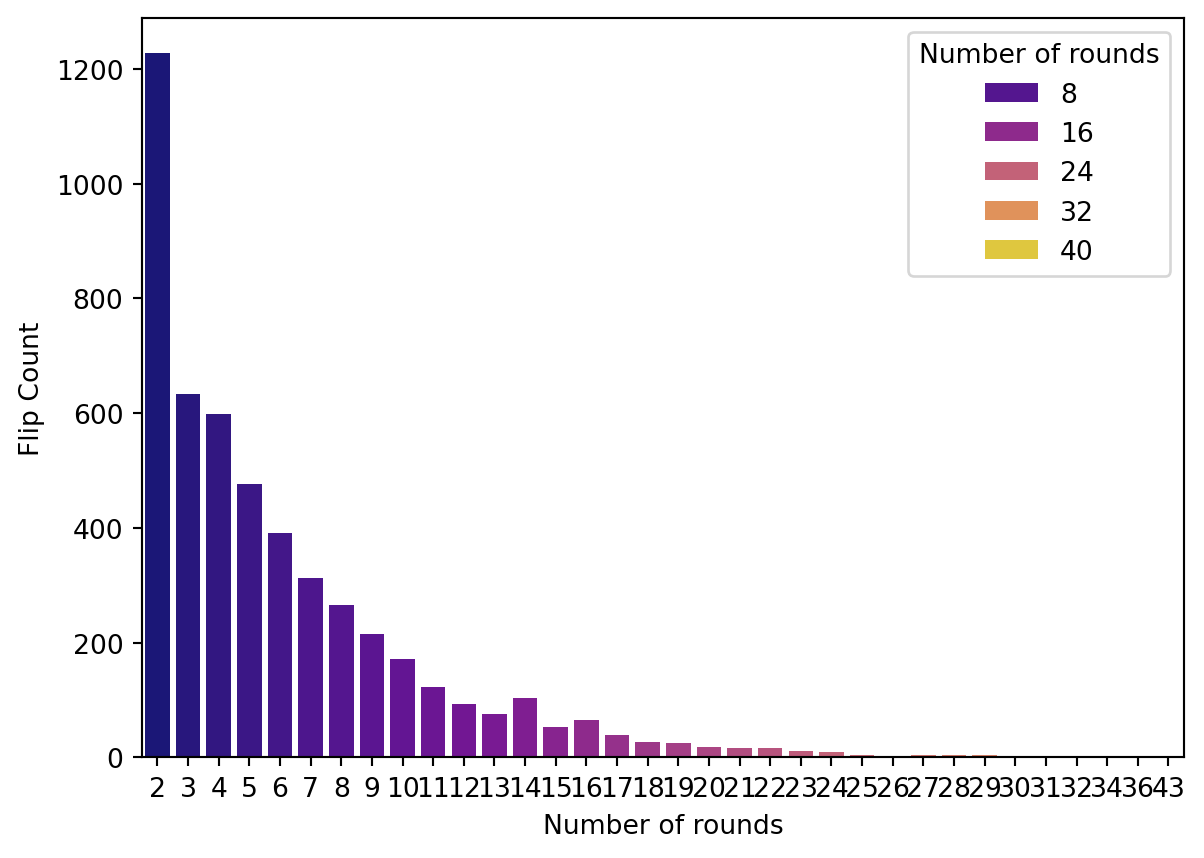
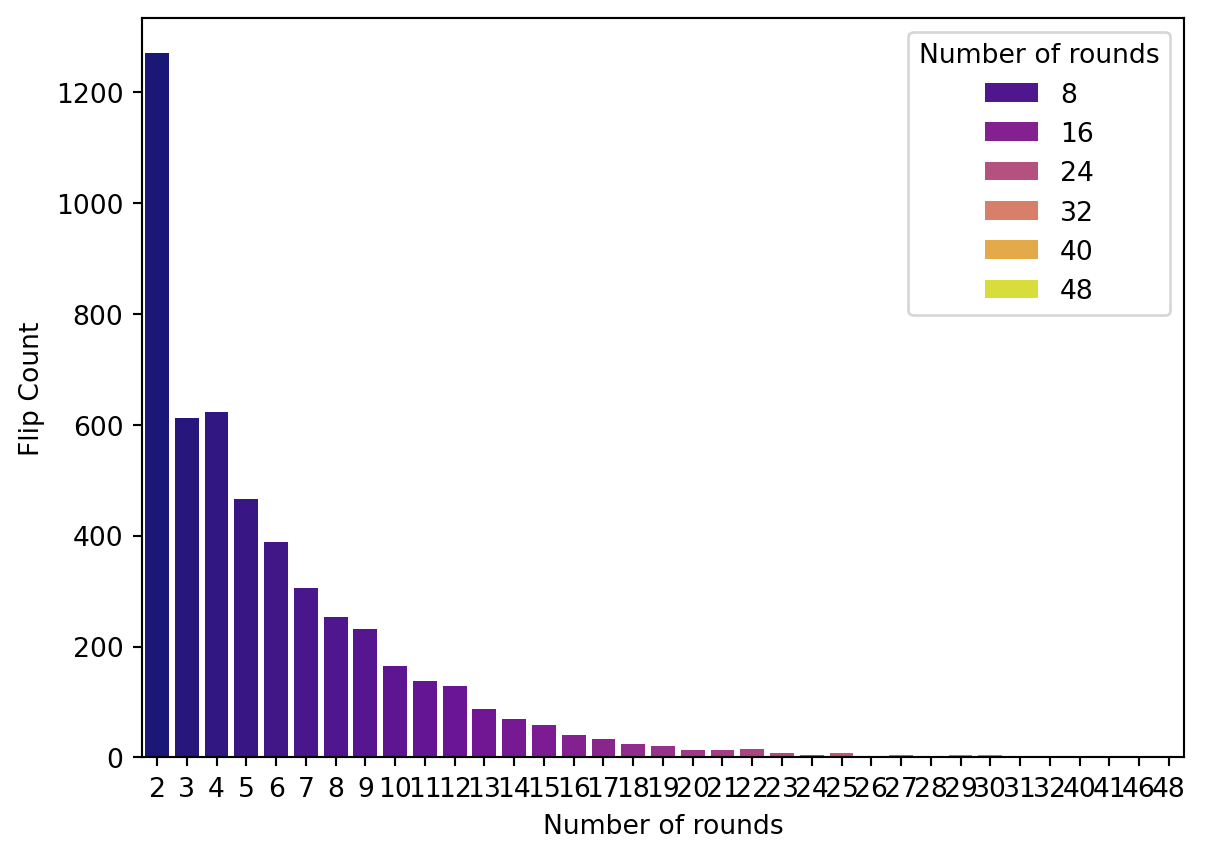
Built site for gh-pages

diff --git a/posts/clas.html b/posts/clas.html
@@ -447,9 +447,9 @@ require(['plotly'], function(Plotly) {
 </details>
 <div class="cell-output cell-output-display">
 
-<div>                            <div id="a02548ff-e9e2-48d5-b165-f7f3f0111e7c" class="plotly-graph-div" style="height:525px; width:100%;"></div>            <script type="text/javascript">                require(["plotly"], function(Plotly) {                    window.PLOTLYENV=window.PLOTLYENV || {};                                    if (document.getElementById("a02548ff-e9e2-48d5-b165-f7f3f0111e7c")) {                    Plotly.newPlot(                        "a02548ff-e9e2-48d5-b165-f7f3f0111e7c",                        [{"mode":"markers","name":"Setosa","x":[5.8,5.1,6.6,5.4,7.9,6.3,6.9,5.1,4.7,6.9,5.6,5.4,7.1,6.4,6.0,4.4,5.8,5.6,5.4,5.0,5.5,5.4,6.7,5.0,7.2,5.7,5.5,5.1,6.1,6.3,6.1,7.7,5.6,6.4,5.8,5.3,5.5,5.2,6.5,6.7,6.8,5.1,6.0,6.3,6.6,7.7,5.7,5.0,4.8,5.2,5.1,5.5,7.7,6.9,7.3,6.4,6.2,6.0,7.7,5.7,4.8,5.7,6.3,4.8,4.7,6.5,4.6,6.1,6.5,6.7,5.7,6.7,6.0,5.1,6.0],"y":[4.0,2.5,3.0,3.9,3.8,3.3,3.1,3.8,3.2,3.2,2.7,3.9,3.0,3.2,2.9,3.2,2.6,3.0,3.4,3.2,2.6,3.0,3.0,3.5,3.2,2.8,4.2,3.8,2.8,2.5,3.0,3.0,2.5,2.8,2.8,3.7,2.3,3.4,2.8,2.5,3.0,3.5,2.2,2.9,2.9,2.6,3.8,3.6,3.0,2.7,3.4,3.5,3.8,3.1,2.9,2.8,2.8,3.4,2.8,3.0,3.4,2.5,2.7,3.0,3.2,3.0,3.4,3.0,3.2,3.1,2.8,3.3,3.0,3.8,2.2],"z":[0.9791246596671646,0.26013654237538497,0.007963673282095754,0.9801071577347609,4.495071570779708e-06,0.0061264842135451015,0.0003570381934695657,0.9511761146361241,0.9617226465203426,3.5826613740558625e-05,0.02315037105658017,0.9589695780835856,1.9324248195621082e-05,0.0091947419418521,0.009123177682802203,0.9838183218995206,0.026289955782468264,0.014184471917944657,0.945677729813282,0.9745483052639812,0.015452369458327822,0.016508747051751746,0.0012533911837236194,0.9787007232589768,2.6972882702673774e-05,0.029276646369642768,0.9831536600662389,0.9769560324967049,0.005739028247299872,0.000739746003082292,0.007972496792161905,4.7697591682653565e-06,0.03568847294049869,6.833762311141067e-05,0.00033633634667340376,0.9685984086566821,0.023291614718408408,0.9652117295658259,0.004110087416852913,3.98411647738038e-05,0.0001060691718179118,0.971612036621742,0.0010932621039200698,0.00013868946545520338,0.004816750526560667,1.204922563128464e-07,0.9385083269148525,0.9782536157736209,0.9604528980644816,0.059461295888194265,0.9624847417632278,0.9650610069895943,8.539533397109276e-07,0.00016456022736545685,6.076450231152045e-06,5.5710059196543446e-05,0.002290670159623325,0.014796914440145194,6.269636749466606e-07,0.03207551787133081,0.9671602399742649,0.0008484797963953404,0.0014251938648965458,0.962792125713752,0.9777555304891326,2.7677797301574774e-05,0.9809255698496017,0.0021640582802792364,0.0007766512553387681,0.008192970580319812,0.01221565852549961,2.6609119078322976e-05,0.003175667405768314,0.9732031729875804,0.013797983627374286],"type":"scatter3d","marker":{"size":3}},{"mode":"markers","name":"Versicolour","x":[5.8,5.1,6.6,5.4,7.9,6.3,6.9,5.1,4.7,6.9,5.6,5.4,7.1,6.4,6.0,4.4,5.8,5.6,5.4,5.0,5.5,5.4,6.7,5.0,7.2,5.7,5.5,5.1,6.1,6.3,6.1,7.7,5.6,6.4,5.8,5.3,5.5,5.2,6.5,6.7,6.8,5.1,6.0,6.3,6.6,7.7,5.7,5.0,4.8,5.2,5.1,5.5,7.7,6.9,7.3,6.4,6.2,6.0,7.7,5.7,4.8,5.7,6.3,4.8,4.7,6.5,4.6,6.1,6.5,6.7,5.7,6.7,6.0,5.1,6.0],"y":[4.0,2.5,3.0,3.9,3.8,3.3,3.1,3.8,3.2,3.2,2.7,3.9,3.0,3.2,2.9,3.2,2.6,3.0,3.4,3.2,2.6,3.0,3.0,3.5,3.2,2.8,4.2,3.8,2.8,2.5,3.0,3.0,2.5,2.8,2.8,3.7,2.3,3.4,2.8,2.5,3.0,3.5,2.2,2.9,2.9,2.6,3.8,3.6,3.0,2.7,3.4,3.5,3.8,3.1,2.9,2.8,2.8,3.4,2.8,3.0,3.4,2.5,2.7,3.0,3.2,3.0,3.4,3.0,3.2,3.1,2.8,3.3,3.0,3.8,2.2],"z":[0.02087487611641056,0.7346144996451967,0.8734892822264978,0.01989174283488202,0.034782339680363504,0.606654317070161,0.23246946360284398,0.04880973161741095,0.03827371217069039,0.06246509544919141,0.8576706589842428,0.04102444259754487,0.07443996231503618,0.7736179292826587,0.7433842163648261,0.01618071015170266,0.922088285639416,0.6562219148106496,0.054318661674080476,0.025450989045934222,0.8258994608594509,0.6152131107327412,0.515518596184615,0.02129818821435667,0.09711940771179732,0.8776267576312261,0.016845447165424188,0.02304186922200308,0.7860908368537954,0.41001892681034074,0.7393372171753192,0.05437834317698534,0.9264844500728754,0.09219303032606295,0.10269000150374032,0.03139972061780269,0.9098917423456147,0.03478678816333918,0.7919004627297566,0.14649352813619704,0.1401409309476298,0.02838626992925512,0.5760126111969672,0.1336129492074769,0.8492407922164189,0.010410598324303298,0.06148630258743129,0.021745138660131683,0.039544829904926956,0.8433931353663686,0.037513034491112006,0.03493803948047502,0.00992059211184002,0.17592462384141608,0.06365067131146845,0.07757754861904391,0.50945389669445,0.638432878031844,0.025977184197653064,0.8594145608117083,0.03283653248154774,0.25371650882527746,0.4863136181468202,0.037206408291203655,0.022243446869331555,0.04773768564003912,0.01907276865655064,0.3985225964210197,0.26106882047392416,0.8761351809684316,0.7718697068752836,0.034840711115212544,0.4356084739982586,0.02679425210676655,0.9618465833442698],"type":"scatter3d","marker":{"size":3}},{"mode":"markers","name":"Virginica","x":[5.8,5.1,6.6,5.4,7.9,6.3,6.9,5.1,4.7,6.9,5.6,5.4,7.1,6.4,6.0,4.4,5.8,5.6,5.4,5.0,5.5,5.4,6.7,5.0,7.2,5.7,5.5,5.1,6.1,6.3,6.1,7.7,5.6,6.4,5.8,5.3,5.5,5.2,6.5,6.7,6.8,5.1,6.0,6.3,6.6,7.7,5.7,5.0,4.8,5.2,5.1,5.5,7.7,6.9,7.3,6.4,6.2,6.0,7.7,5.7,4.8,5.7,6.3,4.8,4.7,6.5,4.6,6.1,6.5,6.7,5.7,6.7,6.0,5.1,6.0],"y":[4.0,2.5,3.0,3.9,3.8,3.3,3.1,3.8,3.2,3.2,2.7,3.9,3.0,3.2,2.9,3.2,2.6,3.0,3.4,3.2,2.6,3.0,3.0,3.5,3.2,2.8,4.2,3.8,2.8,2.5,3.0,3.0,2.5,2.8,2.8,3.7,2.3,3.4,2.8,2.5,3.0,3.5,2.2,2.9,2.9,2.6,3.8,3.6,3.0,2.7,3.4,3.5,3.8,3.1,2.9,2.8,2.8,3.4,2.8,3.0,3.4,2.5,2.7,3.0,3.2,3.0,3.4,3.0,3.2,3.1,2.8,3.3,3.0,3.8,2.2],"z":[4.6421642511098806e-07,0.005248957979418488,0.11854704449140642,1.099430357029201e-06,0.9652131652480657,0.38721919871629373,0.7671734982036864,1.415374646505877e-05,3.641308966893709e-06,0.9374990779370681,0.11917896995917712,5.979318869560566e-06,0.9255407134367682,0.21718732877548905,0.24749260595237163,9.679487768510119e-07,0.05162175857811581,0.32959361327140574,3.6085126375667216e-06,7.056900846346326e-07,0.15864816968222123,0.36827814221550703,0.48322801263166143,1.0885266663411506e-06,0.9028536194055,0.09309659599913107,8.927683368306828e-07,2.098281291899718e-06,0.20817013489890462,0.5892413271865768,0.2526902860325189,0.9456168870638464,0.037827076986625886,0.9077386320508256,0.8969736621495862,1.8707255152548467e-06,0.06681664293597697,1.4822708349557704e-06,0.20398944985339063,0.8534666306990291,0.8597529998805523,1.6934490027718997e-06,0.4228941266991127,0.866248361327068,0.14594245725702046,0.9895892811834405,5.370497716089881e-06,1.2455662473890795e-06,2.2720305914047336e-06,0.09714556874543709,2.2237456602296078e-06,9.535299306188726e-07,0.9900785539348202,0.8239108159312185,0.9363432522383004,0.9223667413217597,0.48825543314592684,0.3467702075280108,0.974022188838672,0.10850992131696093,3.2275441872584093e-06,0.7454350113783271,0.5122611879882834,1.465995044404548e-06,1.0226415359325549e-06,0.9522346365626593,1.6614938477190648e-06,0.5993133452987011,0.7381545282707371,0.11567184845124857,0.21591463459921675,0.9651326797657092,0.561215858595973,2.5749056528636508e-06,0.024355433028356008],"type":"scatter3d","marker":{"size":3}}],                        {"template":{"data":{"histogram2dcontour":[{"type":"histogram2dcontour","colorbar":{"outlinewidth":0,"ticks":""},"colorscale":[[0.0,"#0d0887"],[0.1111111111111111,"#46039f"],[0.2222222222222222,"#7201a8"],[0.3333333333333333,"#9c179e"],[0.4444444444444444,"#bd3786"],[0.5555555555555556,"#d8576b"],[0.6666666666666666,"#ed7953"],[0.7777777777777778,"#fb9f3a"],[0.8888888888888888,"#fdca26"],[1.0,"#f0f921"]]}],"choropleth":[{"type":"choropleth","colorbar":{"outlinewidth":0,"ticks":""}}],"histogram2d":[{"type":"histogram2d","colorbar":{"outlinewidth":0,"ticks":""},"colorscale":[[0.0,"#0d0887"],[0.1111111111111111,"#46039f"],[0.2222222222222222,"#7201a8"],[0.3333333333333333,"#9c179e"],[0.4444444444444444,"#bd3786"],[0.5555555555555556,"#d8576b"],[0.6666666666666666,"#ed7953"],[0.7777777777777778,"#fb9f3a"],[0.8888888888888888,"#fdca26"],[1.0,"#f0f921"]]}],"heatmap":[{"type":"heatmap","colorbar":{"outlinewidth":0,"ticks":""},"colorscale":[[0.0,"#0d0887"],[0.1111111111111111,"#46039f"],[0.2222222222222222,"#7201a8"],[0.3333333333333333,"#9c179e"],[0.4444444444444444,"#bd3786"],[0.5555555555555556,"#d8576b"],[0.6666666666666666,"#ed7953"],[0.7777777777777778,"#fb9f3a"],[0.8888888888888888,"#fdca26"],[1.0,"#f0f921"]]}],"heatmapgl":[{"type":"heatmapgl","colorbar":{"outlinewidth":0,"ticks":""},"colorscale":[[0.0,"#0d0887"],[0.1111111111111111,"#46039f"],[0.2222222222222222,"#7201a8"],[0.3333333333333333,"#9c179e"],[0.4444444444444444,"#bd3786"],[0.5555555555555556,"#d8576b"],[0.6666666666666666,"#ed7953"],[0.7777777777777778,"#fb9f3a"],[0.8888888888888888,"#fdca26"],[1.0,"#f0f921"]]}],"contourcarpet":[{"type":"contourcarpet","colorbar":{"outlinewidth":0,"ticks":""}}],"contour":[{"type":"contour","colorbar":{"outlinewidth":0,"ticks":""},"colorscale":[[0.0,"#0d0887"],[0.1111111111111111,"#46039f"],[0.2222222222222222,"#7201a8"],[0.3333333333333333,"#9c179e"],[0.4444444444444444,"#bd3786"],[0.5555555555555556,"#d8576b"],[0.6666666666666666,"#ed7953"],[0.7777777777777778,"#fb9f3a"],[0.8888888888888888,"#fdca26"],[1.0,"#f0f921"]]}],"surface":[{"type":"surface","colorbar":{"outlinewidth":0,"ticks":""},"colorscale":[[0.0,"#0d0887"],[0.1111111111111111,"#46039f"],[0.2222222222222222,"#7201a8"],[0.3333333333333333,"#9c179e"],[0.4444444444444444,"#bd3786"],[0.5555555555555556,"#d8576b"],[0.6666666666666666,"#ed7953"],[0.7777777777777778,"#fb9f3a"],[0.8888888888888888,"#fdca26"],[1.0,"#f0f921"]]}],"mesh3d":[{"type":"mesh3d","colorbar":{"outlinewidth":0,"ticks":""}}],"scatter":[{"fillpattern":{"fillmode":"overlay","size":10,"solidity":0.2},"type":"scatter"}],"parcoords":[{"type":"parcoords","line":{"colorbar":{"outlinewidth":0,"ticks":""}}}],"scatterpolargl":[{"type":"scatterpolargl","marker":{"colorbar":{"outlinewidth":0,"ticks":""}}}],"bar":[{"error_x":{"color":"#2a3f5f"},"error_y":{"color":"#2a3f5f"},"marker":{"line":{"color":"#E5ECF6","width":0.5},"pattern":{"fillmode":"overlay","size":10,"solidity":0.2}},"type":"bar"}],"scattergeo":[{"type":"scattergeo","marker":{"colorbar":{"outlinewidth":0,"ticks":""}}}],"scatterpolar":[{"type":"scatterpolar","marker":{"colorbar":{"outlinewidth":0,"ticks":""}}}],"histogram":[{"marker":{"pattern":{"fillmode":"overlay","size":10,"solidity":0.2}},"type":"histogram"}],"scattergl":[{"type":"scattergl","marker":{"colorbar":{"outlinewidth":0,"ticks":""}}}],"scatter3d":[{"type":"scatter3d","line":{"colorbar":{"outlinewidth":0,"ticks":""}},"marker":{"colorbar":{"outlinewidth":0,"ticks":""}}}],"scattermapbox":[{"type":"scattermapbox","marker":{"colorbar":{"outlinewidth":0,"ticks":""}}}],"scatterternary":[{"type":"scatterternary","marker":{"colorbar":{"outlinewidth":0,"ticks":""}}}],"scattercarpet":[{"type":"scattercarpet","marker":{"colorbar":{"outlinewidth":0,"ticks":""}}}],"carpet":[{"aaxis":{"endlinecolor":"#2a3f5f","gridcolor":"white","linecolor":"white","minorgridcolor":"white","startlinecolor":"#2a3f5f"},"baxis":{"endlinecolor":"#2a3f5f","gridcolor":"white","linecolor":"white","minorgridcolor":"white","startlinecolor":"#2a3f5f"},"type":"carpet"}],"table":[{"cells":{"fill":{"color":"#EBF0F8"},"line":{"color":"white"}},"header":{"fill":{"color":"#C8D4E3"},"line":{"color":"white"}},"type":"table"}],"barpolar":[{"marker":{"line":{"color":"#E5ECF6","width":0.5},"pattern":{"fillmode":"overlay","size":10,"solidity":0.2}},"type":"barpolar"}],"pie":[{"automargin":true,"type":"pie"}]},"layout":{"autotypenumbers":"strict","colorway":["#636efa","#EF553B","#00cc96","#ab63fa","#FFA15A","#19d3f3","#FF6692","#B6E880","#FF97FF","#FECB52"],"font":{"color":"#2a3f5f"},"hovermode":"closest","hoverlabel":{"align":"left"},"paper_bgcolor":"white","plot_bgcolor":"#E5ECF6","polar":{"bgcolor":"#E5ECF6","angularaxis":{"gridcolor":"white","linecolor":"white","ticks":""},"radialaxis":{"gridcolor":"white","linecolor":"white","ticks":""}},"ternary":{"bgcolor":"#E5ECF6","aaxis":{"gridcolor":"white","linecolor":"white","ticks":""},"baxis":{"gridcolor":"white","linecolor":"white","ticks":""},"caxis":{"gridcolor":"white","linecolor":"white","ticks":""}},"coloraxis":{"colorbar":{"outlinewidth":0,"ticks":""}},"colorscale":{"sequential":[[0.0,"#0d0887"],[0.1111111111111111,"#46039f"],[0.2222222222222222,"#7201a8"],[0.3333333333333333,"#9c179e"],[0.4444444444444444,"#bd3786"],[0.5555555555555556,"#d8576b"],[0.6666666666666666,"#ed7953"],[0.7777777777777778,"#fb9f3a"],[0.8888888888888888,"#fdca26"],[1.0,"#f0f921"]],"sequentialminus":[[0.0,"#0d0887"],[0.1111111111111111,"#46039f"],[0.2222222222222222,"#7201a8"],[0.3333333333333333,"#9c179e"],[0.4444444444444444,"#bd3786"],[0.5555555555555556,"#d8576b"],[0.6666666666666666,"#ed7953"],[0.7777777777777778,"#fb9f3a"],[0.8888888888888888,"#fdca26"],[1.0,"#f0f921"]],"diverging":[[0,"#8e0152"],[0.1,"#c51b7d"],[0.2,"#de77ae"],[0.3,"#f1b6da"],[0.4,"#fde0ef"],[0.5,"#f7f7f7"],[0.6,"#e6f5d0"],[0.7,"#b8e186"],[0.8,"#7fbc41"],[0.9,"#4d9221"],[1,"#276419"]]},"xaxis":{"gridcolor":"white","linecolor":"white","ticks":"","title":{"standoff":15},"zerolinecolor":"white","automargin":true,"zerolinewidth":2},"yaxis":{"gridcolor":"white","linecolor":"white","ticks":"","title":{"standoff":15},"zerolinecolor":"white","automargin":true,"zerolinewidth":2},"scene":{"xaxis":{"backgroundcolor":"#E5ECF6","gridcolor":"white","linecolor":"white","showbackground":true,"ticks":"","zerolinecolor":"white","gridwidth":2},"yaxis":{"backgroundcolor":"#E5ECF6","gridcolor":"white","linecolor":"white","showbackground":true,"ticks":"","zerolinecolor":"white","gridwidth":2},"zaxis":{"backgroundcolor":"#E5ECF6","gridcolor":"white","linecolor":"white","showbackground":true,"ticks":"","zerolinecolor":"white","gridwidth":2}},"shapedefaults":{"line":{"color":"#2a3f5f"}},"annotationdefaults":{"arrowcolor":"#2a3f5f","arrowhead":0,"arrowwidth":1},"geo":{"bgcolor":"white","landcolor":"#E5ECF6","subunitcolor":"white","showland":true,"showlakes":true,"lakecolor":"white"},"title":{"x":0.05},"mapbox":{"style":"light"}}},"title":{"text":"Probabilities of Species","y":0.9,"x":0.5,"xanchor":"center","yanchor":"top"}},                        {"responsive": true}                    ).then(function(){
+<div>                            <div id="50abeeea-9565-4f28-a543-c4bb883aa2cb" class="plotly-graph-div" style="height:525px; width:100%;"></div>            <script type="text/javascript">                require(["plotly"], function(Plotly) {                    window.PLOTLYENV=window.PLOTLYENV || {};                                    if (document.getElementById("50abeeea-9565-4f28-a543-c4bb883aa2cb")) {                    Plotly.newPlot(                        "50abeeea-9565-4f28-a543-c4bb883aa2cb",                        [{"mode":"markers","name":"Setosa","x":[5.8,5.1,6.6,5.4,7.9,6.3,6.9,5.1,4.7,6.9,5.6,5.4,7.1,6.4,6.0,4.4,5.8,5.6,5.4,5.0,5.5,5.4,6.7,5.0,7.2,5.7,5.5,5.1,6.1,6.3,6.1,7.7,5.6,6.4,5.8,5.3,5.5,5.2,6.5,6.7,6.8,5.1,6.0,6.3,6.6,7.7,5.7,5.0,4.8,5.2,5.1,5.5,7.7,6.9,7.3,6.4,6.2,6.0,7.7,5.7,4.8,5.7,6.3,4.8,4.7,6.5,4.6,6.1,6.5,6.7,5.7,6.7,6.0,5.1,6.0],"y":[4.0,2.5,3.0,3.9,3.8,3.3,3.1,3.8,3.2,3.2,2.7,3.9,3.0,3.2,2.9,3.2,2.6,3.0,3.4,3.2,2.6,3.0,3.0,3.5,3.2,2.8,4.2,3.8,2.8,2.5,3.0,3.0,2.5,2.8,2.8,3.7,2.3,3.4,2.8,2.5,3.0,3.5,2.2,2.9,2.9,2.6,3.8,3.6,3.0,2.7,3.4,3.5,3.8,3.1,2.9,2.8,2.8,3.4,2.8,3.0,3.4,2.5,2.7,3.0,3.2,3.0,3.4,3.0,3.2,3.1,2.8,3.3,3.0,3.8,2.2],"z":[0.9791246596671646,0.26013654237538497,0.007963673282095754,0.9801071577347609,4.495071570779708e-06,0.0061264842135451015,0.0003570381934695657,0.9511761146361241,0.9617226465203426,3.5826613740558625e-05,0.02315037105658017,0.9589695780835856,1.9324248195621082e-05,0.0091947419418521,0.009123177682802203,0.9838183218995206,0.026289955782468264,0.014184471917944657,0.945677729813282,0.9745483052639812,0.015452369458327822,0.016508747051751746,0.0012533911837236194,0.9787007232589768,2.6972882702673774e-05,0.029276646369642768,0.9831536600662389,0.9769560324967049,0.005739028247299872,0.000739746003082292,0.007972496792161905,4.7697591682653565e-06,0.03568847294049869,6.833762311141067e-05,0.00033633634667340376,0.9685984086566821,0.023291614718408408,0.9652117295658259,0.004110087416852913,3.98411647738038e-05,0.0001060691718179118,0.971612036621742,0.0010932621039200698,0.00013868946545520338,0.004816750526560667,1.204922563128464e-07,0.9385083269148525,0.9782536157736209,0.9604528980644816,0.059461295888194265,0.9624847417632278,0.9650610069895943,8.539533397109276e-07,0.00016456022736545685,6.076450231152045e-06,5.5710059196543446e-05,0.002290670159623325,0.014796914440145194,6.269636749466606e-07,0.03207551787133081,0.9671602399742649,0.0008484797963953404,0.0014251938648965458,0.962792125713752,0.9777555304891326,2.7677797301574774e-05,0.9809255698496017,0.0021640582802792364,0.0007766512553387681,0.008192970580319812,0.01221565852549961,2.6609119078322976e-05,0.003175667405768314,0.9732031729875804,0.013797983627374286],"type":"scatter3d","marker":{"size":3}},{"mode":"markers","name":"Versicolour","x":[5.8,5.1,6.6,5.4,7.9,6.3,6.9,5.1,4.7,6.9,5.6,5.4,7.1,6.4,6.0,4.4,5.8,5.6,5.4,5.0,5.5,5.4,6.7,5.0,7.2,5.7,5.5,5.1,6.1,6.3,6.1,7.7,5.6,6.4,5.8,5.3,5.5,5.2,6.5,6.7,6.8,5.1,6.0,6.3,6.6,7.7,5.7,5.0,4.8,5.2,5.1,5.5,7.7,6.9,7.3,6.4,6.2,6.0,7.7,5.7,4.8,5.7,6.3,4.8,4.7,6.5,4.6,6.1,6.5,6.7,5.7,6.7,6.0,5.1,6.0],"y":[4.0,2.5,3.0,3.9,3.8,3.3,3.1,3.8,3.2,3.2,2.7,3.9,3.0,3.2,2.9,3.2,2.6,3.0,3.4,3.2,2.6,3.0,3.0,3.5,3.2,2.8,4.2,3.8,2.8,2.5,3.0,3.0,2.5,2.8,2.8,3.7,2.3,3.4,2.8,2.5,3.0,3.5,2.2,2.9,2.9,2.6,3.8,3.6,3.0,2.7,3.4,3.5,3.8,3.1,2.9,2.8,2.8,3.4,2.8,3.0,3.4,2.5,2.7,3.0,3.2,3.0,3.4,3.0,3.2,3.1,2.8,3.3,3.0,3.8,2.2],"z":[0.02087487611641056,0.7346144996451967,0.8734892822264978,0.01989174283488202,0.034782339680363504,0.606654317070161,0.23246946360284398,0.04880973161741095,0.03827371217069039,0.06246509544919141,0.8576706589842428,0.04102444259754487,0.07443996231503618,0.7736179292826587,0.7433842163648261,0.01618071015170266,0.922088285639416,0.6562219148106496,0.054318661674080476,0.025450989045934222,0.8258994608594509,0.6152131107327412,0.515518596184615,0.02129818821435667,0.09711940771179732,0.8776267576312261,0.016845447165424188,0.02304186922200308,0.7860908368537954,0.41001892681034074,0.7393372171753192,0.05437834317698534,0.9264844500728754,0.09219303032606295,0.10269000150374032,0.03139972061780269,0.9098917423456147,0.03478678816333918,0.7919004627297566,0.14649352813619704,0.1401409309476298,0.02838626992925512,0.5760126111969672,0.1336129492074769,0.8492407922164189,0.010410598324303298,0.06148630258743129,0.021745138660131683,0.039544829904926956,0.8433931353663686,0.037513034491112006,0.03493803948047502,0.00992059211184002,0.17592462384141608,0.06365067131146845,0.07757754861904391,0.50945389669445,0.638432878031844,0.025977184197653064,0.8594145608117083,0.03283653248154774,0.25371650882527746,0.4863136181468202,0.037206408291203655,0.022243446869331555,0.04773768564003912,0.01907276865655064,0.3985225964210197,0.26106882047392416,0.8761351809684316,0.7718697068752836,0.034840711115212544,0.4356084739982586,0.02679425210676655,0.9618465833442698],"type":"scatter3d","marker":{"size":3}},{"mode":"markers","name":"Virginica","x":[5.8,5.1,6.6,5.4,7.9,6.3,6.9,5.1,4.7,6.9,5.6,5.4,7.1,6.4,6.0,4.4,5.8,5.6,5.4,5.0,5.5,5.4,6.7,5.0,7.2,5.7,5.5,5.1,6.1,6.3,6.1,7.7,5.6,6.4,5.8,5.3,5.5,5.2,6.5,6.7,6.8,5.1,6.0,6.3,6.6,7.7,5.7,5.0,4.8,5.2,5.1,5.5,7.7,6.9,7.3,6.4,6.2,6.0,7.7,5.7,4.8,5.7,6.3,4.8,4.7,6.5,4.6,6.1,6.5,6.7,5.7,6.7,6.0,5.1,6.0],"y":[4.0,2.5,3.0,3.9,3.8,3.3,3.1,3.8,3.2,3.2,2.7,3.9,3.0,3.2,2.9,3.2,2.6,3.0,3.4,3.2,2.6,3.0,3.0,3.5,3.2,2.8,4.2,3.8,2.8,2.5,3.0,3.0,2.5,2.8,2.8,3.7,2.3,3.4,2.8,2.5,3.0,3.5,2.2,2.9,2.9,2.6,3.8,3.6,3.0,2.7,3.4,3.5,3.8,3.1,2.9,2.8,2.8,3.4,2.8,3.0,3.4,2.5,2.7,3.0,3.2,3.0,3.4,3.0,3.2,3.1,2.8,3.3,3.0,3.8,2.2],"z":[4.6421642511098806e-07,0.005248957979418488,0.11854704449140642,1.099430357029201e-06,0.9652131652480657,0.38721919871629373,0.7671734982036864,1.415374646505877e-05,3.641308966893709e-06,0.9374990779370681,0.11917896995917712,5.979318869560566e-06,0.9255407134367682,0.21718732877548905,0.24749260595237163,9.679487768510119e-07,0.05162175857811581,0.32959361327140574,3.6085126375667216e-06,7.056900846346326e-07,0.15864816968222123,0.36827814221550703,0.48322801263166143,1.0885266663411506e-06,0.9028536194055,0.09309659599913107,8.927683368306828e-07,2.098281291899718e-06,0.20817013489890462,0.5892413271865768,0.2526902860325189,0.9456168870638464,0.037827076986625886,0.9077386320508256,0.8969736621495862,1.8707255152548467e-06,0.06681664293597697,1.4822708349557704e-06,0.20398944985339063,0.8534666306990291,0.8597529998805523,1.6934490027718997e-06,0.4228941266991127,0.866248361327068,0.14594245725702046,0.9895892811834405,5.370497716089881e-06,1.2455662473890795e-06,2.2720305914047336e-06,0.09714556874543709,2.2237456602296078e-06,9.535299306188726e-07,0.9900785539348202,0.8239108159312185,0.9363432522383004,0.9223667413217597,0.48825543314592684,0.3467702075280108,0.974022188838672,0.10850992131696093,3.2275441872584093e-06,0.7454350113783271,0.5122611879882834,1.465995044404548e-06,1.0226415359325549e-06,0.9522346365626593,1.6614938477190648e-06,0.5993133452987011,0.7381545282707371,0.11567184845124857,0.21591463459921675,0.9651326797657092,0.561215858595973,2.5749056528636508e-06,0.024355433028356008],"type":"scatter3d","marker":{"size":3}}],                        {"template":{"data":{"histogram2dcontour":[{"type":"histogram2dcontour","colorbar":{"outlinewidth":0,"ticks":""},"colorscale":[[0.0,"#0d0887"],[0.1111111111111111,"#46039f"],[0.2222222222222222,"#7201a8"],[0.3333333333333333,"#9c179e"],[0.4444444444444444,"#bd3786"],[0.5555555555555556,"#d8576b"],[0.6666666666666666,"#ed7953"],[0.7777777777777778,"#fb9f3a"],[0.8888888888888888,"#fdca26"],[1.0,"#f0f921"]]}],"choropleth":[{"type":"choropleth","colorbar":{"outlinewidth":0,"ticks":""}}],"histogram2d":[{"type":"histogram2d","colorbar":{"outlinewidth":0,"ticks":""},"colorscale":[[0.0,"#0d0887"],[0.1111111111111111,"#46039f"],[0.2222222222222222,"#7201a8"],[0.3333333333333333,"#9c179e"],[0.4444444444444444,"#bd3786"],[0.5555555555555556,"#d8576b"],[0.6666666666666666,"#ed7953"],[0.7777777777777778,"#fb9f3a"],[0.8888888888888888,"#fdca26"],[1.0,"#f0f921"]]}],"heatmap":[{"type":"heatmap","colorbar":{"outlinewidth":0,"ticks":""},"colorscale":[[0.0,"#0d0887"],[0.1111111111111111,"#46039f"],[0.2222222222222222,"#7201a8"],[0.3333333333333333,"#9c179e"],[0.4444444444444444,"#bd3786"],[0.5555555555555556,"#d8576b"],[0.6666666666666666,"#ed7953"],[0.7777777777777778,"#fb9f3a"],[0.8888888888888888,"#fdca26"],[1.0,"#f0f921"]]}],"heatmapgl":[{"type":"heatmapgl","colorbar":{"outlinewidth":0,"ticks":""},"colorscale":[[0.0,"#0d0887"],[0.1111111111111111,"#46039f"],[0.2222222222222222,"#7201a8"],[0.3333333333333333,"#9c179e"],[0.4444444444444444,"#bd3786"],[0.5555555555555556,"#d8576b"],[0.6666666666666666,"#ed7953"],[0.7777777777777778,"#fb9f3a"],[0.8888888888888888,"#fdca26"],[1.0,"#f0f921"]]}],"contourcarpet":[{"type":"contourcarpet","colorbar":{"outlinewidth":0,"ticks":""}}],"contour":[{"type":"contour","colorbar":{"outlinewidth":0,"ticks":""},"colorscale":[[0.0,"#0d0887"],[0.1111111111111111,"#46039f"],[0.2222222222222222,"#7201a8"],[0.3333333333333333,"#9c179e"],[0.4444444444444444,"#bd3786"],[0.5555555555555556,"#d8576b"],[0.6666666666666666,"#ed7953"],[0.7777777777777778,"#fb9f3a"],[0.8888888888888888,"#fdca26"],[1.0,"#f0f921"]]}],"surface":[{"type":"surface","colorbar":{"outlinewidth":0,"ticks":""},"colorscale":[[0.0,"#0d0887"],[0.1111111111111111,"#46039f"],[0.2222222222222222,"#7201a8"],[0.3333333333333333,"#9c179e"],[0.4444444444444444,"#bd3786"],[0.5555555555555556,"#d8576b"],[0.6666666666666666,"#ed7953"],[0.7777777777777778,"#fb9f3a"],[0.8888888888888888,"#fdca26"],[1.0,"#f0f921"]]}],"mesh3d":[{"type":"mesh3d","colorbar":{"outlinewidth":0,"ticks":""}}],"scatter":[{"fillpattern":{"fillmode":"overlay","size":10,"solidity":0.2},"type":"scatter"}],"parcoords":[{"type":"parcoords","line":{"colorbar":{"outlinewidth":0,"ticks":""}}}],"scatterpolargl":[{"type":"scatterpolargl","marker":{"colorbar":{"outlinewidth":0,"ticks":""}}}],"bar":[{"error_x":{"color":"#2a3f5f"},"error_y":{"color":"#2a3f5f"},"marker":{"line":{"color":"#E5ECF6","width":0.5},"pattern":{"fillmode":"overlay","size":10,"solidity":0.2}},"type":"bar"}],"scattergeo":[{"type":"scattergeo","marker":{"colorbar":{"outlinewidth":0,"ticks":""}}}],"scatterpolar":[{"type":"scatterpolar","marker":{"colorbar":{"outlinewidth":0,"ticks":""}}}],"histogram":[{"marker":{"pattern":{"fillmode":"overlay","size":10,"solidity":0.2}},"type":"histogram"}],"scattergl":[{"type":"scattergl","marker":{"colorbar":{"outlinewidth":0,"ticks":""}}}],"scatter3d":[{"type":"scatter3d","line":{"colorbar":{"outlinewidth":0,"ticks":""}},"marker":{"colorbar":{"outlinewidth":0,"ticks":""}}}],"scattermapbox":[{"type":"scattermapbox","marker":{"colorbar":{"outlinewidth":0,"ticks":""}}}],"scatterternary":[{"type":"scatterternary","marker":{"colorbar":{"outlinewidth":0,"ticks":""}}}],"scattercarpet":[{"type":"scattercarpet","marker":{"colorbar":{"outlinewidth":0,"ticks":""}}}],"carpet":[{"aaxis":{"endlinecolor":"#2a3f5f","gridcolor":"white","linecolor":"white","minorgridcolor":"white","startlinecolor":"#2a3f5f"},"baxis":{"endlinecolor":"#2a3f5f","gridcolor":"white","linecolor":"white","minorgridcolor":"white","startlinecolor":"#2a3f5f"},"type":"carpet"}],"table":[{"cells":{"fill":{"color":"#EBF0F8"},"line":{"color":"white"}},"header":{"fill":{"color":"#C8D4E3"},"line":{"color":"white"}},"type":"table"}],"barpolar":[{"marker":{"line":{"color":"#E5ECF6","width":0.5},"pattern":{"fillmode":"overlay","size":10,"solidity":0.2}},"type":"barpolar"}],"pie":[{"automargin":true,"type":"pie"}]},"layout":{"autotypenumbers":"strict","colorway":["#636efa","#EF553B","#00cc96","#ab63fa","#FFA15A","#19d3f3","#FF6692","#B6E880","#FF97FF","#FECB52"],"font":{"color":"#2a3f5f"},"hovermode":"closest","hoverlabel":{"align":"left"},"paper_bgcolor":"white","plot_bgcolor":"#E5ECF6","polar":{"bgcolor":"#E5ECF6","angularaxis":{"gridcolor":"white","linecolor":"white","ticks":""},"radialaxis":{"gridcolor":"white","linecolor":"white","ticks":""}},"ternary":{"bgcolor":"#E5ECF6","aaxis":{"gridcolor":"white","linecolor":"white","ticks":""},"baxis":{"gridcolor":"white","linecolor":"white","ticks":""},"caxis":{"gridcolor":"white","linecolor":"white","ticks":""}},"coloraxis":{"colorbar":{"outlinewidth":0,"ticks":""}},"colorscale":{"sequential":[[0.0,"#0d0887"],[0.1111111111111111,"#46039f"],[0.2222222222222222,"#7201a8"],[0.3333333333333333,"#9c179e"],[0.4444444444444444,"#bd3786"],[0.5555555555555556,"#d8576b"],[0.6666666666666666,"#ed7953"],[0.7777777777777778,"#fb9f3a"],[0.8888888888888888,"#fdca26"],[1.0,"#f0f921"]],"sequentialminus":[[0.0,"#0d0887"],[0.1111111111111111,"#46039f"],[0.2222222222222222,"#7201a8"],[0.3333333333333333,"#9c179e"],[0.4444444444444444,"#bd3786"],[0.5555555555555556,"#d8576b"],[0.6666666666666666,"#ed7953"],[0.7777777777777778,"#fb9f3a"],[0.8888888888888888,"#fdca26"],[1.0,"#f0f921"]],"diverging":[[0,"#8e0152"],[0.1,"#c51b7d"],[0.2,"#de77ae"],[0.3,"#f1b6da"],[0.4,"#fde0ef"],[0.5,"#f7f7f7"],[0.6,"#e6f5d0"],[0.7,"#b8e186"],[0.8,"#7fbc41"],[0.9,"#4d9221"],[1,"#276419"]]},"xaxis":{"gridcolor":"white","linecolor":"white","ticks":"","title":{"standoff":15},"zerolinecolor":"white","automargin":true,"zerolinewidth":2},"yaxis":{"gridcolor":"white","linecolor":"white","ticks":"","title":{"standoff":15},"zerolinecolor":"white","automargin":true,"zerolinewidth":2},"scene":{"xaxis":{"backgroundcolor":"#E5ECF6","gridcolor":"white","linecolor":"white","showbackground":true,"ticks":"","zerolinecolor":"white","gridwidth":2},"yaxis":{"backgroundcolor":"#E5ECF6","gridcolor":"white","linecolor":"white","showbackground":true,"ticks":"","zerolinecolor":"white","gridwidth":2},"zaxis":{"backgroundcolor":"#E5ECF6","gridcolor":"white","linecolor":"white","showbackground":true,"ticks":"","zerolinecolor":"white","gridwidth":2}},"shapedefaults":{"line":{"color":"#2a3f5f"}},"annotationdefaults":{"arrowcolor":"#2a3f5f","arrowhead":0,"arrowwidth":1},"geo":{"bgcolor":"white","landcolor":"#E5ECF6","subunitcolor":"white","showland":true,"showlakes":true,"lakecolor":"white"},"title":{"x":0.05},"mapbox":{"style":"light"}}},"title":{"text":"Probabilities of Species","y":0.9,"x":0.5,"xanchor":"center","yanchor":"top"}},                        {"responsive": true}                    ).then(function(){
                             
-var gd = document.getElementById('a02548ff-e9e2-48d5-b165-f7f3f0111e7c');
+var gd = document.getElementById('50abeeea-9565-4f28-a543-c4bb883aa2cb');
 var x = new MutationObserver(function (mutations, observer) {{
         var display = window.getComputedStyle(gd).display;
         if (!display || display === 'none') {{

diff --git a/posts/clus.html b/posts/clus.html
@@ -379,40 +379,40 @@ pre > code.sourceCode > span > a:first-child::before { text-decoration: underlin
 <td>Barbara Bailey is the queen of broadcast news ...</td>
 <td>pop_culture</td>
 <td>2</td>
-<td>2.815385</td>
-<td>-4.618085</td>
+<td>14.320232</td>
+<td>-10.883064</td>
 </tr>
 <tr class="even">
 <td data-quarto-table-cell-role="th">3</td>
 <td>There s regular people and then there s {@Bail...</td>
 <td>pop_culture</td>
 <td>2</td>
-<td>3.692987</td>
-<td>-4.774335</td>
+<td>15.338669</td>
+<td>-10.596313</td>
 </tr>
 <tr class="odd">
-<td data-quarto-table-cell-role="th">6</td>
-<td>POWER BOOK 2 EPISODE 1 REVIEW!! (MY THOUGHTS) ...</td>
-<td>pop_culture</td>
-<td>2</td>
-<td>5.896851</td>
-<td>17.536180</td>
+<td data-quarto-table-cell-role="th">5</td>
+<td>I m still ticked at {@NBC Sports@} for moving ...</td>
+<td>sports_&amp;_gaming</td>
+<td>1</td>
+<td>-21.025387</td>
+<td>-2.219523</td>
 </tr>
 <tr class="even">
 <td data-quarto-table-cell-role="th">7</td>
 <td>you cannot simultaneously prepare and prevent...</td>
 <td>pop_culture</td>
 <td>2</td>
-<td>10.823426</td>
-<td>11.094867</td>
+<td>14.908103</td>
+<td>-17.337248</td>
 </tr>
 <tr class="odd">
 <td data-quarto-table-cell-role="th">8</td>
 <td>The time is now! The 1st edition of the 192 ...</td>
 <td>arts_&amp;_culture</td>
 <td>2</td>
-<td>6.077450</td>
-<td>8.689940</td>
+<td>10.824976</td>
+<td>3.334099</td>
 </tr>
 </tbody>
 </table>
@@ -454,43 +454,47 @@ pre > code.sourceCode > span > a:first-child::before { text-decoration: underlin
 <span id="cb7-28"><a href="#cb7-28" aria-hidden="true" tabindex="-1"></a>cluster_summary(df,<span class="dv">3</span>)</span></code><button title="Copy to Clipboard" class="code-copy-button"><i class="bi"></i></button></pre></div>
 </details>
 <div class="cell-output cell-output-stderr">
-<pre><code>  0%|          | 0/5 [00:00&lt;?, ?it/s] 20%|██        | 1/5 [00:02&lt;00:10,  2.59s/it] 40%|████      | 2/5 [00:04&lt;00:07,  2.40s/it] 60%|██████    | 3/5 [00:07&lt;00:04,  2.40s/it] 80%|████████  | 4/5 [00:09&lt;00:02,  2.45s/it]100%|██████████| 5/5 [00:12&lt;00:00,  2.40s/it]100%|██████████| 5/5 [00:12&lt;00:00,  2.42s/it]</code></pre>
+<pre><code>  0%|          | 0/5 [00:00&lt;?, ?it/s] 20%|██        | 1/5 [00:02&lt;00:10,  2.59s/it] 40%|████      | 2/5 [00:04&lt;00:06,  2.31s/it] 60%|██████    | 3/5 [00:07&lt;00:04,  2.33s/it] 80%|████████  | 4/5 [00:09&lt;00:02,  2.28s/it]100%|██████████| 5/5 [00:11&lt;00:00,  2.30s/it]100%|██████████| 5/5 [00:11&lt;00:00,  2.32s/it]</code></pre>
 </div>
 <div class="cell-output cell-output-stdout">
 <pre><code>
 Asking the LLM for a summary for cluster indexed 2. 
 
-Ground truth labels: business_&amp;_entrepreneurs, daily_life, daily_life
-The first tweet is related to job hiring and marketing opportunities. It mentions the company's achievements in November and highlights the potential for a great storyteller. The tweet invites interested individuals to inquire for more details.
+Ground truth labels: science_&amp;_technology, arts_&amp;_culture, daily_life
+The first tweet is related to the category of "COVID-19 and Global Health Crisis". It discusses the challenges faced in investigating the origins of the pandemic and emphasizes the need for more transparency from China.
 
-The second tweet conveys a message about finding joy in the small things in life. It mentions a person named Kyle
-
-Asking the LLM for a summary for cluster indexed 3. 
-
-Ground truth labels: pop_culture, pop_culture, pop_culture
-Based on the given tweets, the categories for each tweet can be described as follows:
-
-1. Tweet 1: Music Appreciation
-   Description: This tweet is expressing appreciation for the music crew on NBC Entertainment's show, specifically mentioning the artist "Drivin N Cryin." The hashtag "#aintitstrange
+The second tweet is related to the category of "Urban Development and City Planning". It expresses excitement about the development and future
 
 Asking the LLM for a summary for cluster indexed 1. 
 
 Ground truth labels: sports_&amp;_gaming, sports_&amp;_gaming, sports_&amp;_gaming
-Category: Sports
+The given tweets can be categorized as follows:
 
-Description: The given tweets are related to sports. The first tweet discusses an NFLDraft conspiracy theory, reviews the Houston Sports Awards, and includes an interview with Gary Kubiak. The second tweet mentions a 21-year-old Southampton left-back likely leaving the club on loan. The third tweet features an
+1. Tweet 1: Category - Sports
+   Description: This tweet is about a brand new facility at Texas Motor Speedway for the AllStarRace night. It mentions Tyler Reddick leading the field of 22 cars to the start of the race. The hashtag #
+
+Asking the LLM for a summary for cluster indexed 3. 
+
+Ground truth labels: pop_culture, pop_culture, pop_culture
+Based on the given tweets, the categories and descriptions are as follows:
+
+1. Music Promotion: The first tweet is promoting an album by the artist Ace Word, encouraging people to listen to it on various music platforms. It mentions Burna Boy, Wizkid, and Cool FM Nigeria 96.9 as well.
+
+
 
 Asking the LLM for a summary for cluster indexed 0. 
 
 Ground truth labels: sports_&amp;_gaming, sports_&amp;_gaming, sports_&amp;_gaming
-The first tweet is about a boxing match between Loma and Teofimo Lopez. The person mentions that Loma started slow but dominated the second half of the fight. They also mention that if Loma had won the final round, it would have been a draw. The category for this tweet could be "Sports -
+Category: Sports
+
+Description: The given tweets are related to a sports event, specifically a fighting match. The tweets mention the fighters, their performance in the rounds, and the sportsmanship displayed. The first tweet mentions a specific fighter and their performance in the first round. The second tweet shows respect for both fighters and discusses
 
 Asking the LLM for a summary for cluster indexed 4. 
 
 Ground truth labels: pop_culture, pop_culture, pop_culture
-The given tweets belong to the category of BTS fandom. 
+Category: BTS Fan Support
 
-1. The first tweet expresses the person's liking for the song "WHO" by LV, JK &amp; JM, which likely refers to members of BTS (LV - V, JK - Jungkook, JM - Jimin). They mention identifying with the story</code></pre>
+Description: The given tweets are related to the K-pop group BTS. The first tweet congratulates BTS on winning an award for Best Dance Performance Male Group. The second tweet provides updates on the rankings of BTS songs on Spotify Philippines Top 200. The third tweet expresses the user's liking for</code></pre>
 </div>
 </div>
 <p>Finally, let’s visualize our clusters to see how HDBSCAN works!</p>

diff --git a/posts/prob.html b/posts/prob.html
@@ -371,7 +371,7 @@ pre > code.sourceCode > span > a:first-child::before { text-decoration: underlin
 <div class="sourceCode cell-code" id="cb9"><pre class="sourceCode python code-with-copy"><code class="sourceCode python"><span id="cb9-1"><a href="#cb9-1" aria-hidden="true" tabindex="-1"></a>np.mean(x)</span></code><button title="Copy to Clipboard" class="code-copy-button"><i class="bi"></i></button></pre></div>
 </details>
 <div class="cell-output cell-output-display" data-execution_count="7">
-<pre><code>6.06</code></pre>
+<pre><code>5.92</code></pre>
 </div>
 </div>
 <p>Increase the number of rounds to see what’s the average of filps we get:</p>
@@ -399,7 +399,7 @@ pre > code.sourceCode > span > a:first-child::before { text-decoration: underlin
 <div class="sourceCode cell-code" id="cb13"><pre class="sourceCode python code-with-copy"><code class="sourceCode python"><span id="cb13-1"><a href="#cb13-1" aria-hidden="true" tabindex="-1"></a>np.mean(x)</span></code><button title="Copy to Clipboard" class="code-copy-button"><i class="bi"></i></button></pre></div>
 </details>
 <div class="cell-output cell-output-display" data-execution_count="9">
-<pre><code>5.946</code></pre>
+<pre><code>5.98</code></pre>
 </div>
 </div>
 <p>Even more rounds!</p>
@@ -417,7 +417,7 @@ pre > code.sourceCode > span > a:first-child::before { text-decoration: underlin
 <pre><code>Text(0, 0.5, 'Flip Count')</code></pre>
 </div>
 <div class="cell-output cell-output-display">
-<p><img src="prob_files/figure-html/cell-11-output-2.png" width="602" height="429"></p>
+<p><img src="prob_files/figure-html/cell-11-output-2.png" width="603" height="429"></p>
 </div>
 </div>
 <p>Average of flips:</p>
@@ -427,7 +427,7 @@ pre > code.sourceCode > span > a:first-child::before { text-decoration: underlin
 <div class="sourceCode cell-code" id="cb17"><pre class="sourceCode python code-with-copy"><code class="sourceCode python"><span id="cb17-1"><a href="#cb17-1" aria-hidden="true" tabindex="-1"></a>np.mean(x)</span></code><button title="Copy to Clipboard" class="code-copy-button"><i class="bi"></i></button></pre></div>
 </details>
 <div class="cell-output cell-output-display" data-execution_count="11">
-<pre><code>6.0664</code></pre>
+<pre><code>5.9282</code></pre>
 </div>
 </div>
 <p>We can see that the answer is 6 rounds. The simulation process used here is known as Monte Carlo simulation, which is a very important technique in machine learning.</p>

diff --git a/posts/outl.html b/posts/outl.html
@@ -378,7 +378,7 @@ pre > code.sourceCode > span > a:first-child::before { text-decoration: underlin
 <pre><code>Text(0.5, 1.0, 'Tweets topic t-SNE')</code></pre>
 </div>
 <div class="cell-output cell-output-display">
-<p><img src="outl_files/figure-html/cell-6-output-2.png" width="547" height="440"></p>
+<p><img src="outl_files/figure-html/cell-6-output-2.png" width="559" height="440"></p>
 </div>
 </div>
 <p>Let’s take a look at what kind of tweets are outliers</p>
@@ -402,33 +402,33 @@ pre > code.sourceCode > span > a:first-child::before { text-decoration: underlin
 </thead>
 <tbody>
 <tr class="odd">
-<td data-quarto-table-cell-role="th">0</td>
-<td>Barbara Bailey is the queen of broadcast news ...</td>
-<td>pop_culture</td>
-<td>-1</td>
-</tr>
-<tr class="even">
 <td data-quarto-table-cell-role="th">1</td>
 <td>start the 20-21 school year off POSITIVE! let’...</td>
 <td>daily_life</td>
 <td>-1</td>
 </tr>
-<tr class="odd">
-<td data-quarto-table-cell-role="th">2</td>
-<td>Worth watching at least the 1st 10mins if I wa...</td>
-<td>pop_culture</td>
-<td>-1</td>
-</tr>
 <tr class="even">
-<td data-quarto-table-cell-role="th">3</td>
-<td>There s regular people and then there s {@Bail...</td>
-<td>pop_culture</td>
-<td>-1</td>
-</tr>
-<tr class="odd">
 <td data-quarto-table-cell-role="th">4</td>
 <td>Up with new grace, truly sorry on behalf of {@...</td>
 <td>pop_culture</td>
+<td>-1</td>
+</tr>
+<tr class="odd">
+<td data-quarto-table-cell-role="th">30</td>
+<td>I spoke to ESPN about the air quality issues t...</td>
+<td>sports_&amp;_gaming</td>
+<td>-1</td>
+</tr>
+<tr class="even">
+<td data-quarto-table-cell-role="th">37</td>
+<td>Sources Re Air Quality: {@Dallas Cowboys@} (pi...</td>
+<td>sports_&amp;_gaming</td>
+<td>-1</td>
+</tr>
+<tr class="odd">
+<td data-quarto-table-cell-role="th">38</td>
+<td>Check out what I just added to my closet on Po...</td>
+<td>daily_life</td>
 <td>-1</td>
 </tr>
 </tbody>

diff --git a/about.html b/about.html
@@ -131,7 +131,7 @@ ul.task-list li input[type="checkbox"] {
 <li>M.S. in Computer Science</li>
 <li>Graduate Certificate in Urban Computing</li>
 </ul>
-<p>Sept 2007 - June 2011</p>
+<p>Aug 2019 - May 2022</p>
 <ul>
 <li>B.S. in Computer Science</li>
 <li>B.S. in Computational Modeling and Data Analytics</li>
